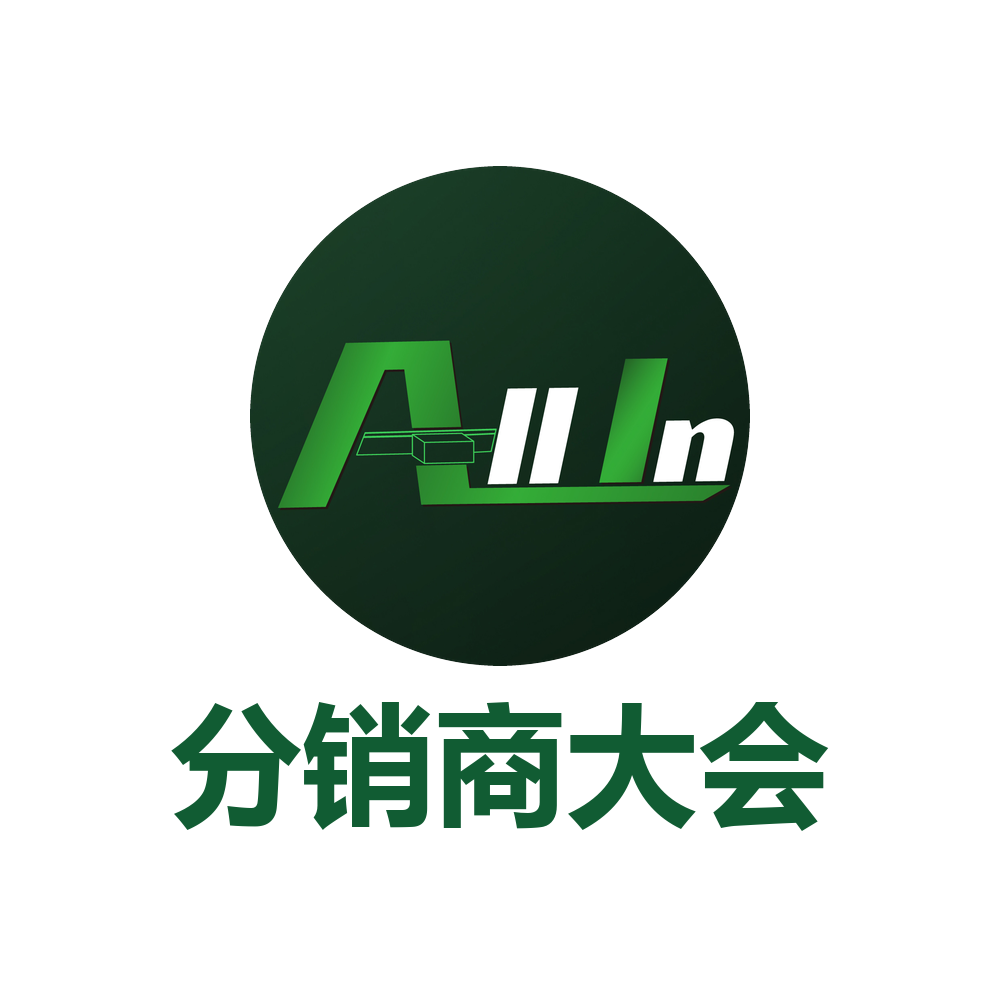
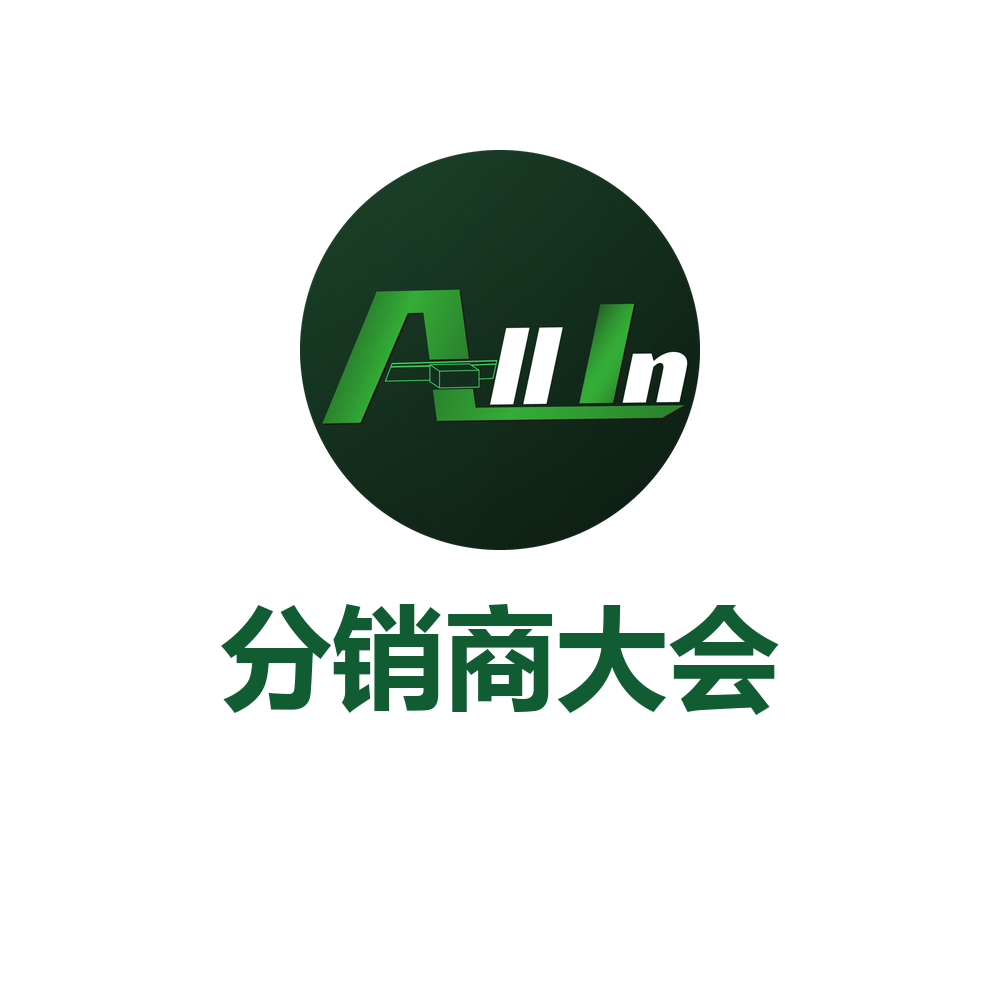
feat(conference): 小程序码中心徽标按展区加注展区名小字
- 新增 4 个展区徽标素材(channel/business/new_v/digital)，在「分销商大会」下方小字标注展区名
- 通用素材同步重排：徽标由 500px 缩至 400px，为展区小字留出空间
- admin.py 新增 _qrcode_center_badge 按展区选素材，缺失时回退通用版

Changed region(s): [[0.155, 0.217, 0.837, 0.837], [0.372, 0.124, 0.651, 0.217]]

diff --git a/分销系统/faq-backend/app/api/v1/admin.py b/分销系统/faq-backend/app/api/v1/admin.py
@@ -3041,15 +3041,28 @@ async def export_conference_zone_attendees(
 
 QRCODE_STATIC_DIR = Path(__file__).resolve().parents[2] / "static" / "conference-qrcodes"
 CONFERENCE_QR_PAGE = "pages/conference/zone-quiz/index"
-# 中心徽标素材：圆形「All in」徽标 + 「分销商大会」，由主题图裁切预制
-QR_CENTER_BADGE = Path(__file__).resolve().parents[2] / "static" / "conference" / "qr-center-badge.png"
+# 中心徽标素材目录：圆形「All in」徽标 + 「分销商大会」（+ 展区小字），由主题图裁切预制
+QR_CENTER_BADGE_DIR = Path(__file__).resolve().parents[2] / "static" / "conference"
 # 微信小程序码中心保留区（logo 区）直径约占码宽 44%，覆盖该区域不影响可识别性
 QR_CENTER_RESERVE_RATIO = 0.44
 
 
-def _compose_qrcode_center(image: bytes) -> bytes:
+def _qrcode_center_badge(zone_code: str | None) -> Path:
+    """按展区取中心徽标素材；无该展区素材时回退到不带展区名的通用素材。
+
+    展区名以小字印在「分销商大会」下方，避免四个展区的打卡码混用。
+    """
+    if zone_code:
+        candidate = QR_CENTER_BADGE_DIR / f"qr-center-badge-{zone_code}.png"
+        if candidate.exists():
+            return candidate
+    return QR_CENTER_BADGE_DIR / "qr-center-badge.png"
+
+
+def _compose_qrcode_center(image: bytes, zone_code: str | None = None) -> bytes:
     """把微信原始码中心保留区替换为大会徽标图层；素材缺失时原样返回。"""
-    if not QR_CENTER_BADGE.exists():
+    badge_path = _qrcode_center_badge(zone_code)
+    if not badge_path.exists():
         return image
 
     with Image.open(BytesIO(image)) as raw:
@@ -3065,7 +3078,7 @@ def _compose_qrcode_center(image: bytes) -> bytes:
     cover = cover.resize((reserve, reserve), Image.LANCZOS)
     base.paste(Image.new("RGBA", (reserve, reserve), (255, 255, 255, 255)), (left, top), cover)
 
-    with Image.open(QR_CENTER_BADGE) as badge_raw:
+    with Image.open(badge_path) as badge_raw:
         badge = badge_raw.convert("RGBA").resize((reserve, reserve), Image.LANCZOS)
     base.alpha_composite(badge, (left, top))
 
@@ -3087,7 +3100,7 @@ async def _generate_zone_qrcode(zone: ConferenceZone, raw: bool = False) -> dict
             detail="未配置 WECHAT_APPID/WECHAT_SECRET（或调试环境），无法生成小程序码",
         )
     if not raw:
-        image = _compose_qrcode_center(image)
+        image = _compose_qrcode_center(image, zone.code)
     QRCODE_STATIC_DIR.mkdir(parents=True, exist_ok=True)
     filename = f"{zone.code}{'-raw' if raw else ''}.png"
     (QRCODE_STATIC_DIR / filename).write_bytes(image)
